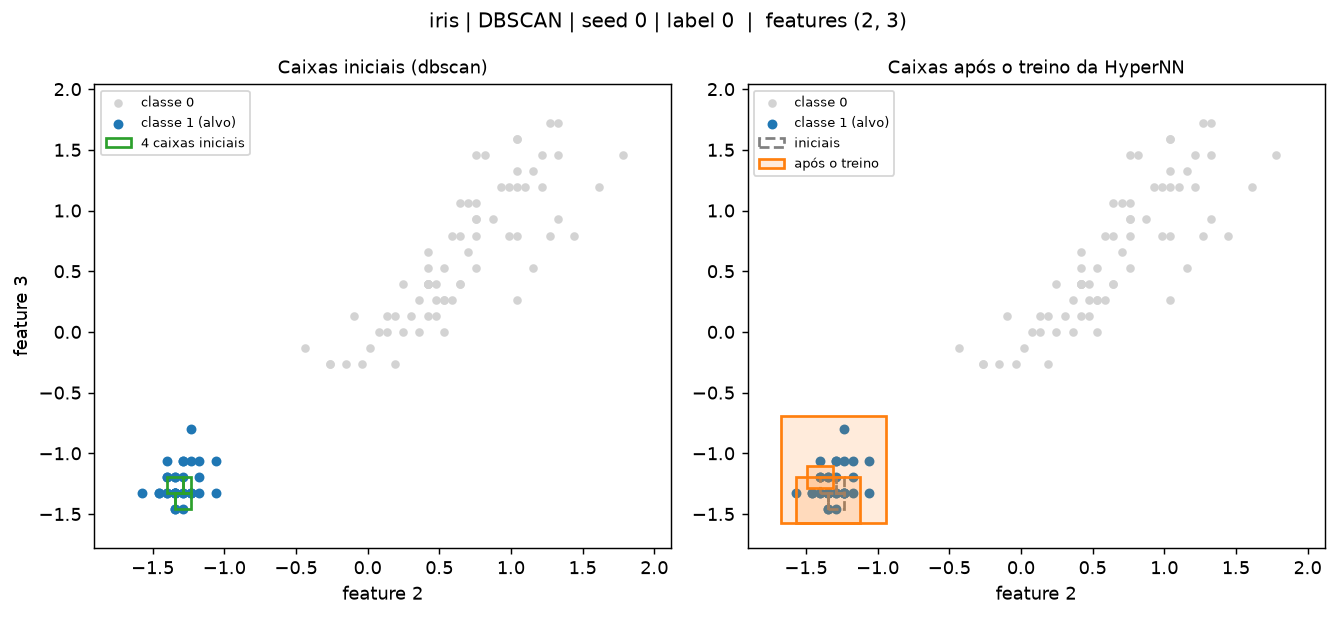
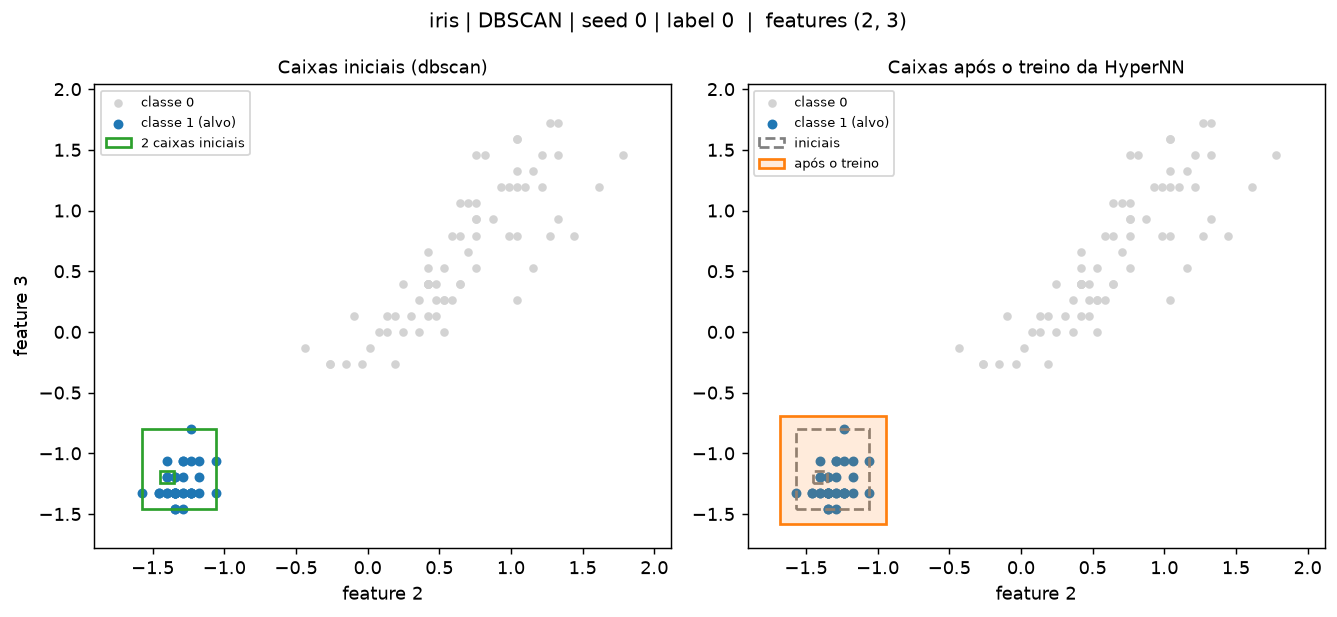
update

Changed region(s): [[0.5826, 0.6775, 0.6746, 0.8622], [0.092, 0.7391, 0.184, 0.8314], [0.092, 0.6775, 0.1533, 0.7083]]

diff --git a/src/models/hypernnwithinitclassifier.py b/src/models/hypernnwithinitclassifier.py
@@ -204,7 +204,6 @@ class HyperNNWithInitClassifier(AbstractClassifier):
         return mins_tensor, lengths_tensor, ce
 
     def dbscan_labels(self, X_target: np.ndarray):
-        """Rótulos do DBSCAN já com o raio efetivo e o teto de `nboxes` clusters (ruído = -1)."""
         eps = self.dbscan_eps * (np.sqrt(X_target.shape[1]) if self.dbscan_eps_by_dim else 1.0)
         labels = DBSCAN(eps=eps, min_samples=self.dbscan_min_samples).fit_predict(X_target)
         ids = [lbl for lbl in set(labels) if lbl != -1]
@@ -259,11 +258,6 @@ class HyperNNWithInitClassifier(AbstractClassifier):
         else:
             sil_score = -1.0
 
-        # Restrição de cobertura: a silhueta ignora o ruído e, sozinha, favorece poucos
-        # clusters minúsculos (o resto dos pontos vira ruído). Configurações que cobrem
-        # menos que `dbscan_min_coverage` da classe-alvo (já com o teto de caixas)
-        # recebem score abaixo do piso da silhueta (< -1), proporcional à cobertura:
-        # qualquer configuração viável vence, e, se nenhuma for, vence a de maior cobertura.
         coverage = float(mask.sum()) / len(X_target)
         if coverage < self.dbscan_min_coverage:
             sil_score = -2.0 + coverage
